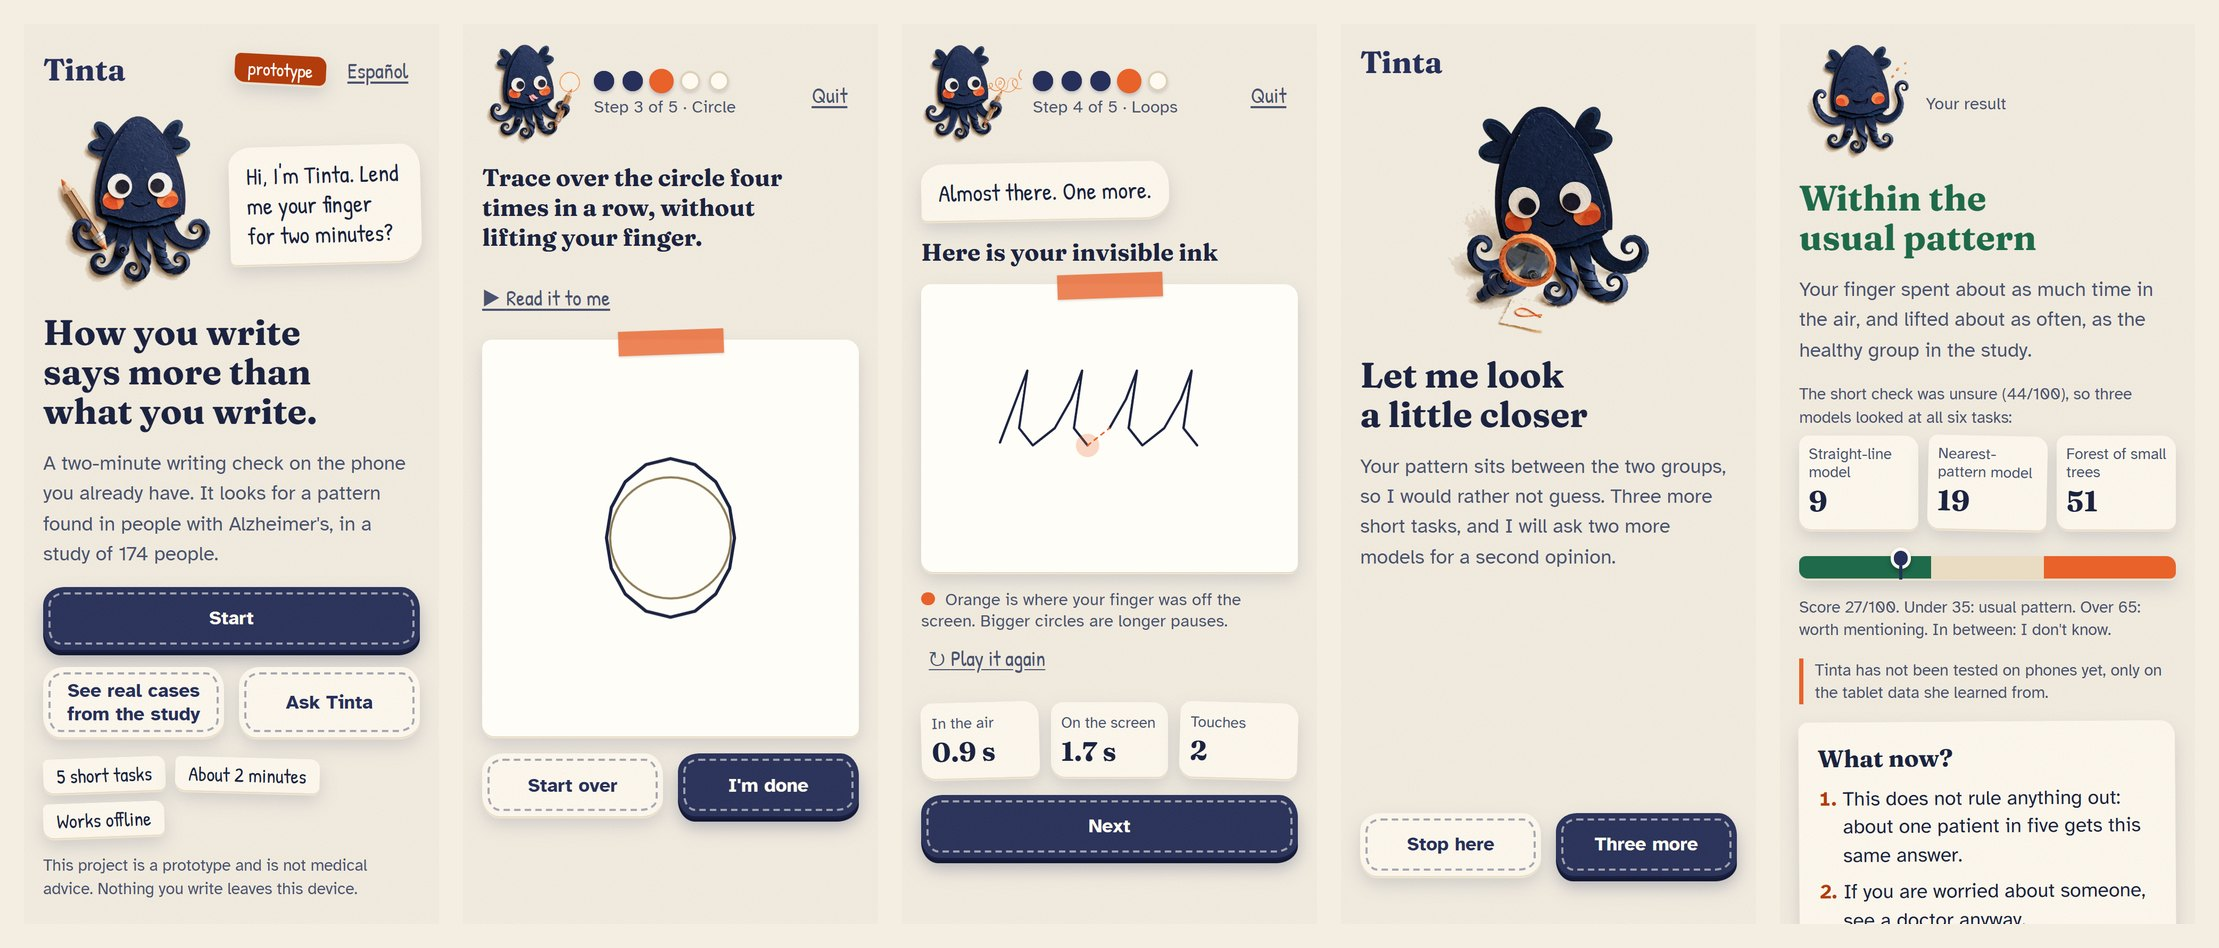
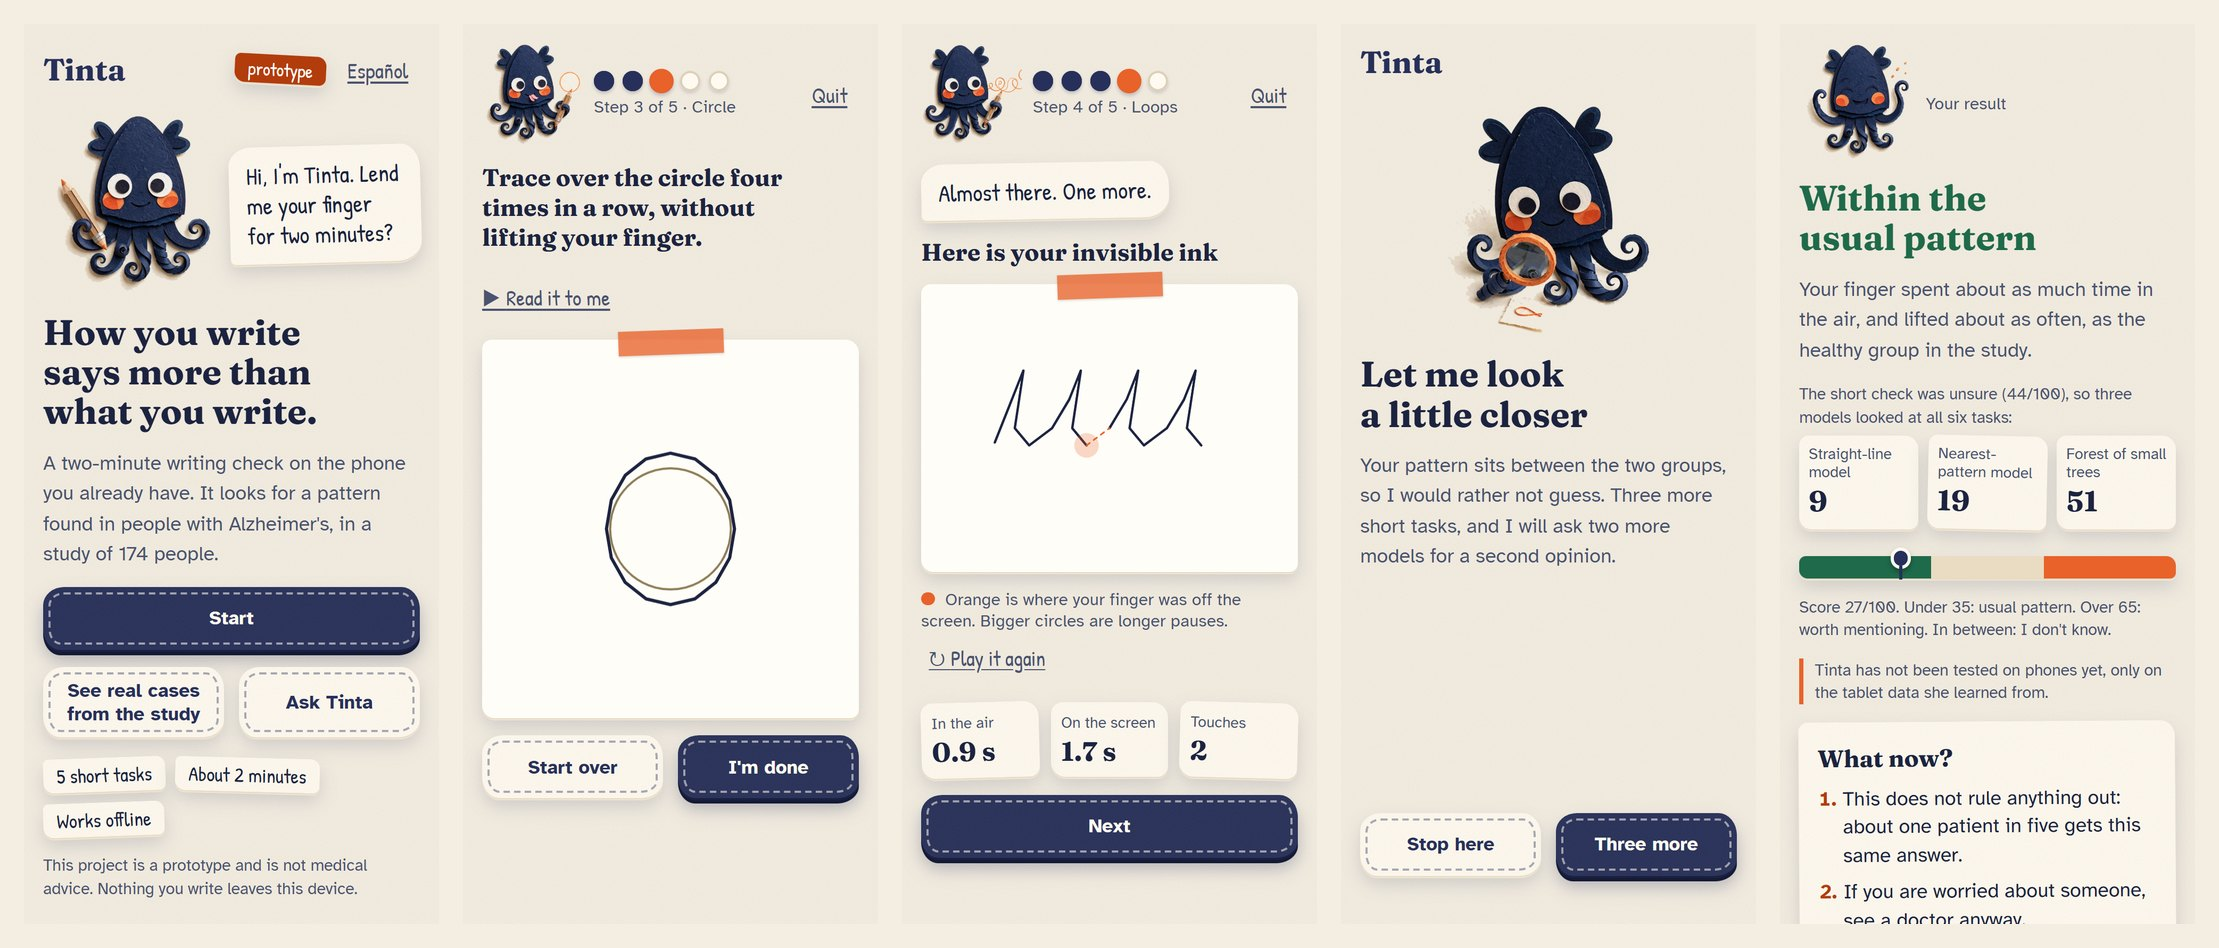
fix: small phones: the sheet, Tinta and the buttons fit without scrolling; the capture script reports anything that sticks out

diff --git a/web/src/index.css b/web/src/index.css
@@ -244,7 +244,7 @@ select:focus-visible {
 
 .ink {
   width: 100%;
-  height: min(44dvh, 21rem);
+  height: var(--sheet);
   background: #fffdf7;
   border: 0;
   border-radius: 0.5rem 0.7rem 0.45rem 0.65rem;
@@ -255,7 +255,8 @@ select:focus-visible {
 
 /* When the writing is being replayed the sheet is shorter, so the measures and the button fit below it. */
 .ink-readonly {
-  height: min(32dvh, 15rem);
+  height: var(--replay);
+  touch-action: pan-y; /* nothing to write here, so a finger on it can scroll the page */
 }
 
 .legend {
@@ -508,10 +509,10 @@ textarea {
 @keyframes updown {
   0%,
   100% {
-    transform: translateY(calc(-0.32 * min(44dvh, 21rem)));
+    transform: translateY(calc(-0.32 * var(--sheet)));
   }
   50% {
-    transform: translateY(calc(0.32 * min(44dvh, 21rem)));
+    transform: translateY(calc(0.32 * var(--sheet)));
   }
 }
 
@@ -793,6 +794,9 @@ textarea {
 
 /* Mascot: she floats gently, unless the person asked for less motion. */
 .mascot {
+  /* never taller than a quarter of the screen, so the button below her stays in view on a small phone */
+  width: min(var(--size), 26dvh);
+  height: min(var(--size), 26dvh);
   flex: none;
   user-select: none;
   animation: bob 3.4s ease-in-out infinite;
@@ -842,5 +846,29 @@ textarea {
   .ink {
     box-shadow: none;
     transform: none;
+  }
+}
+
+/* Size of the writing sheet and of its replay. */
+:root {
+  --sheet: min(42dvh, 21rem);
+  --replay: min(32dvh, 15rem);
+}
+
+/* Short screens (small phones, or a browser bar eating the top): tighten everything so nothing needs scrolling while writing. */
+@media (max-height: 800px) {
+  :root {
+    --sheet: 33dvh;
+    --replay: 24dvh;
+  }
+  .page {
+    padding-top: 0.6rem;
+    gap: 0.55rem;
+  }
+  h1 {
+    font-size: 1.5rem;
+  }
+  h2 {
+    font-size: 1.1rem;
   }
 }

diff --git a/web/src/App.tsx b/web/src/App.tsx
@@ -241,7 +241,7 @@ export default function App() {
             ▶ {t.task.read}
           </button>
         )}
-        <div className="row push">
+        <div className="row push sticky">
           <button
             className="ghost"
             onClick={() => setScreen(screen.step ? { name: 'guide', step: screen.step - 1 } : { name: 'intro' })}
@@ -275,7 +275,7 @@ export default function App() {
           ))}
         </ul>
         <p className="lead">{t.ready.lead}</p>
-        <div className="row push">
+        <div className="row push sticky">
           <button className="ghost" onClick={() => setScreen({ name: 'guide', step: t.guide.cards.length - 1 })}>
             {t.guide.back}
           </button>
@@ -416,7 +416,7 @@ export default function App() {
         </div>
         <h1>{t.closer.title}</h1>
         <p className="lead">{t.closer.body}</p>
-        <div className="row push">
+        <div className="row push sticky">
           <button className="ghost" onClick={() => finish(false)}>
             {t.closer.stop}
           </button>

diff --git a/web/src/components/Mascot.tsx b/web/src/components/Mascot.tsx
@@ -30,6 +30,7 @@ export default function Mascot({ mood = 'hello', size = 120, label }: Props) {
       src={`${import.meta.env.BASE_URL}img/tinta-${mood}.webp`}
       width={size}
       height={size}
+      style={{ '--size': size + 'px' } as React.CSSProperties}
       alt={label ?? ''}
       aria-hidden={label ? undefined : true}
       draggable={false}
